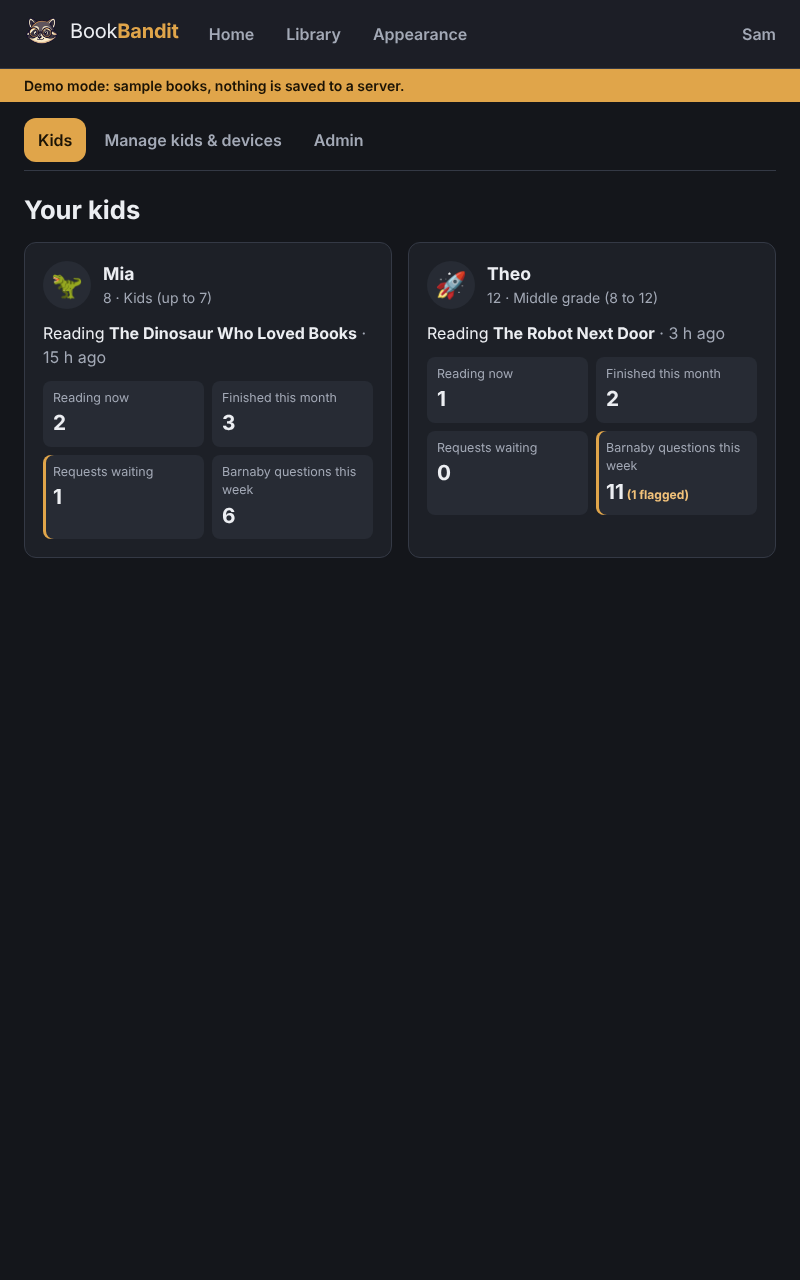
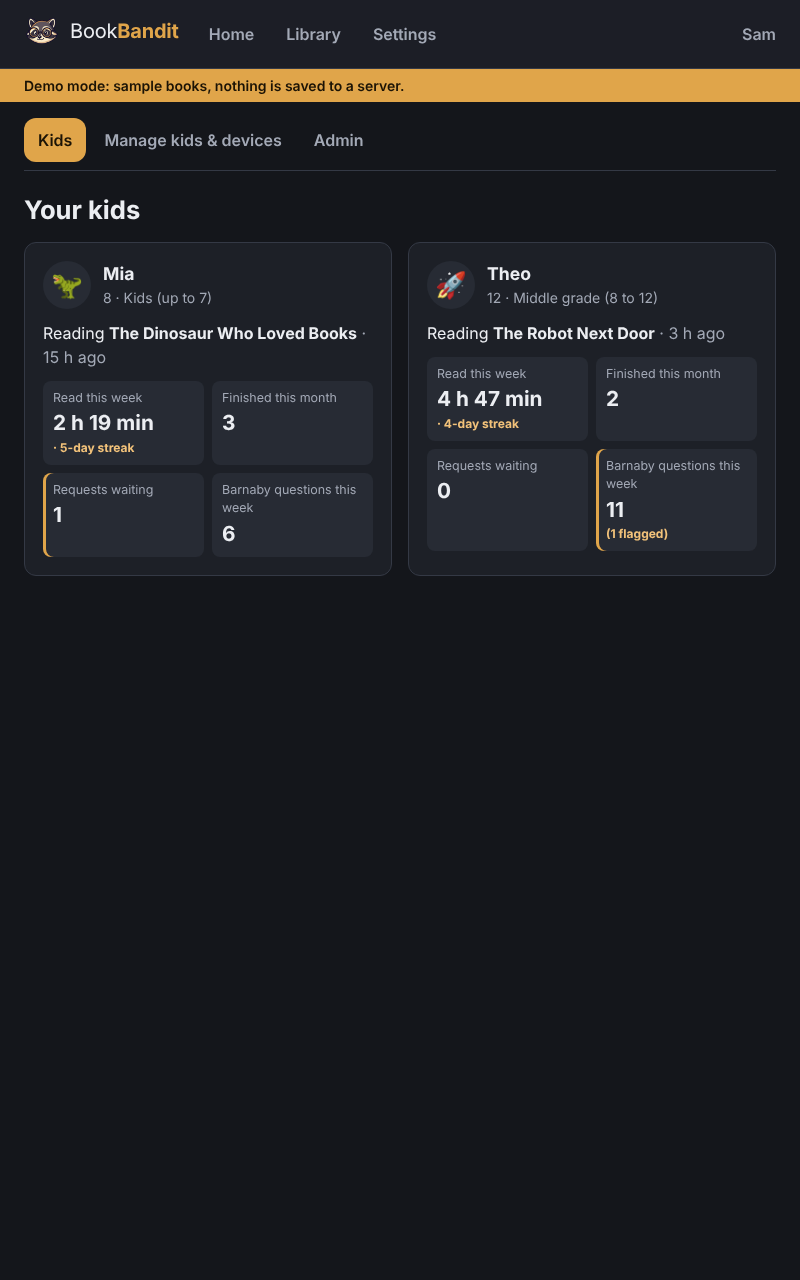
Show reading time on the family dashboard; move admin change log to docs/changes/admin.md
Claude-Session: https://claude.ai/code/session_014p1Va6UR5L7N9q4o3NRTCx

diff --git a/apps/web/src/family/ReadingTime.tsx b/apps/web/src/family/ReadingTime.tsx
@@ -1,0 +1,99 @@
+import { adminApi, type ReadingStats } from "../admin/api";
+import { Card, Cover, ErrorNote, useLoad } from "../admin/ui";
+
+/** "1 h 5 min", "12 min", "0 min" */
+export function formatMinutes(seconds: number): string {
+  const m = Math.round(seconds / 60);
+  if (m < 60) return `${m} min`;
+  const h = Math.floor(m / 60);
+  const rest = m % 60;
+  return rest ? `${h} h ${rest} min` : `${h} h`;
+}
+
+const weekday = (date: string) => new Date(`${date}T12:00:00Z`).toLocaleDateString(undefined, { weekday: "short", timeZone: "UTC" });
+
+/** Last 7 days of reading and listening time for one kid, from the reading-time API. */
+export function ReadingTimeCard({ kidId, kidName }: { kidId: string; kidName: string }) {
+  const stats = useLoad(() => adminApi.readingStats(kidId, 7), [kidId]);
+  const s = stats.data;
+  return (
+    <Card title="Reading time this week" className="bb-reading-time">
+      <ErrorNote error={stats.error} />
+      {!s ? (
+        stats.error ? null : <p className="bb-muted">Loading…</p>
+      ) : (
+        <>
+          <div className="bb-rt-summary">
+            <div>
+              <strong>{formatMinutes(s.totalSeconds)}</strong>
+              <span className="bb-muted bb-small">in 7 days</span>
+            </div>
+            <div>
+              <strong>{formatMinutes(s.totalSeconds / 7)}</strong>
+              <span className="bb-muted bb-small">a day on average</span>
+            </div>
+            <div>
+              <strong>
+                {s.streakDays} day{s.streakDays === 1 ? "" : "s"}
+                {s.streakDays >= 3 ? " 🔥" : ""}
+              </strong>
+              <span className="bb-muted bb-small">reading streak</span>
+            </div>
+          </div>
+          <DayBars days={s.days} />
+          <p className="bb-muted bb-small bb-rt-legend">
+            <span className="bb-rt-swatch is-read" /> reading <span className="bb-rt-swatch is-listen" /> listening. Only time with the
+            book open and {kidName} active counts.
+          </p>
+          {s.books.length > 0 && (
+            <>
+              <h3 className="bb-subhead">Most time spent on</h3>
+              <ul className="bb-rt-books">
+                {s.books.slice(0, 5).map((b) => (
+                  <li key={b.id}>
+                    <Cover src={adminApi.coverUrl(b)} title={b.title} size={32} />
+                    <span className="bb-person-main">{b.title}</span>
+                    <span className="bb-muted">{formatMinutes(b.seconds)}</span>
+                  </li>
+                ))}
+              </ul>
+            </>
+          )}
+        </>
+      )}
+    </Card>
+  );
+}
+
+function DayBars({ days }: { days: ReadingStats["days"] }) {
+  const max = Math.max(15 * 60, ...days.map((d) => d.readSeconds + d.listenSeconds));
+  return (
+    <ol className="bb-rt-bars" aria-label="Minutes per day">
+      {days.map((d) => {
+        const total = d.readSeconds + d.listenSeconds;
+        return (
+          <li key={d.date} aria-label={`${weekday(d.date)}: ${formatMinutes(total)}`}>
+            <span className="bb-rt-value">{total ? Math.round(total / 60) : ""}</span>
+            <span className="bb-rt-col">
+              <span className="bb-rt-bar is-listen" style={{ height: `${(d.listenSeconds / max) * 100}%` }} />
+              <span className="bb-rt-bar is-read" style={{ height: `${(d.readSeconds / max) * 100}%` }} />
+            </span>
+            <span className="bb-rt-day">{weekday(d.date)}</span>
+          </li>
+        );
+      })}
+    </ol>
+  );
+}
+
+/** Small "minutes this week" figure for a kid card on the dashboard. */
+export function WeekMinutes({ kidId }: { kidId: string }) {
+  const stats = useLoad(() => adminApi.readingStats(kidId, 7), [kidId]);
+  if (!stats.data) return <dd>{stats.error ? "–" : "…"}</dd>;
+  return (
+    <dd>
+      {formatMinutes(stats.data.totalSeconds)}
+      {stats.data.streakDays >= 3 ? <small> · {stats.data.streakDays}-day streak</small> : null}
+    </dd>
+  );
+}

diff --git a/apps/web/src/admin/admin.css b/apps/web/src/admin/admin.css
@@ -618,6 +618,7 @@ a.bb-tile:hover {
   font-weight: 700;
 }
 .bb-kid-stats small {
+  display: block;
   font-size: 0.75rem;
   color: var(--bb-focus);
 }
@@ -728,4 +729,91 @@ a.bb-tile:hover {
   margin-top: 4px;
   font-size: 0.75rem;
   opacity: 0.85;
+}
+
+/* --- reading time ---------------------------------------------------------- */
+
+.bb-reading-time {
+  grid-column: 1 / -1;
+}
+.bb-rt-summary {
+  display: flex;
+  flex-wrap: wrap;
+  gap: 12px 32px;
+  margin-bottom: 12px;
+}
+.bb-rt-summary div {
+  display: flex;
+  flex-direction: column;
+}
+.bb-rt-summary strong {
+  font-family: var(--bb-display-font);
+  font-size: 1.6rem;
+}
+.bb-rt-bars {
+  display: grid;
+  grid-template-columns: repeat(7, 1fr);
+  gap: 8px;
+  height: 180px;
+  margin: 0;
+  padding: 0;
+  list-style: none;
+}
+.bb-rt-bars li {
+  display: flex;
+  flex-direction: column;
+  align-items: center;
+  gap: 4px;
+  min-width: 0;
+}
+.bb-rt-value {
+  min-height: 1.2em;
+  font-size: 0.8rem;
+  font-weight: 700;
+}
+.bb-rt-col {
+  display: flex;
+  flex: 1;
+  flex-direction: column;
+  justify-content: flex-end;
+  width: min(48px, 100%);
+  background: var(--bb-surface-2);
+  border-radius: 6px;
+  overflow: hidden;
+}
+.bb-rt-bar.is-read,
+.bb-rt-swatch.is-read {
+  background: var(--bb-accent);
+}
+.bb-rt-bar.is-listen,
+.bb-rt-swatch.is-listen {
+  background: color-mix(in srgb, var(--bb-accent) 45%, var(--bb-surface-2));
+}
+.bb-rt-day {
+  color: var(--bb-muted);
+  font-size: 0.8rem;
+}
+.bb-rt-legend {
+  margin: 10px 0 0;
+}
+.bb-rt-swatch {
+  display: inline-block;
+  width: 10px;
+  height: 10px;
+  margin: 0 4px 0 8px;
+  border-radius: 2px;
+}
+.bb-rt-swatch:first-child {
+  margin-left: 0;
+}
+.bb-rt-books {
+  margin: 0;
+  padding: 0;
+  list-style: none;
+}
+.bb-rt-books li {
+  display: flex;
+  align-items: center;
+  gap: 10px;
+  padding: 4px 0;
 }

diff --git a/apps/web/src/admin/demo.ts b/apps/web/src/admin/demo.ts
@@ -392,6 +392,29 @@ export const demoAdminApi: AdminApi = {
     return delay({ kid: card(k), ...d });
   },
   familyChat: (_kid, conversationId) => delay(chats[conversationId] ?? notFound()),
+  async readingStats(userId, days = 7) {
+    const k = people.find((p) => p.id === userId) ?? notFound();
+    const pattern: Record<string, number[]> = {
+      "u-kid": [12, 0, 18, 25, 9, 31, 14],
+      "u-kid2": [40, 35, 0, 52, 47, 61, 22],
+    };
+    const mins = pattern[userId] ?? Array(7).fill(0);
+    const daysOut = Array.from({ length: days }, (_, i) => {
+      const m = mins[(i + mins.length - (days % mins.length)) % mins.length] ?? 0;
+      return { date: new Date(now - (days - 1 - i) * D).toISOString().slice(0, 10), readSeconds: m * 60, listenSeconds: i % 3 === 0 ? 600 : 0 };
+    });
+    const reading = kidDetails[userId]?.reading ?? [];
+    const total = daysOut.reduce((n, d) => n + d.readSeconds + d.listenSeconds, 0);
+    let streak = 0;
+    for (let i = daysOut.length - 1; i >= 0 && daysOut[i]!.readSeconds + daysOut[i]!.listenSeconds > 0; i--) streak++;
+    return delay({
+      user: { id: k.id, displayName: k.displayName },
+      totalSeconds: total,
+      streakDays: streak,
+      days: daysOut,
+      books: reading.map((r, i) => ({ id: r.bookId, title: r.title, coverPath: r.coverPath, seconds: Math.round(total * [0.6, 0.3, 0.1][i]!) || 0 })),
+    });
+  },
 };
 
 function emptyStats(): KidStats {

diff --git a/apps/web/src/admin/api.ts b/apps/web/src/admin/api.ts
@@ -280,6 +280,15 @@ export interface ChatMessage {
   createdAt: number;
 }
 
+/** GET /api/reading/stats (docs/sync-api.md#reading-time) */
+export interface ReadingStats {
+  user: { id: string; displayName: string };
+  totalSeconds: number;
+  streakDays: number;
+  days: { date: string; readSeconds: number; listenSeconds: number }[];
+  books: { id: string; title: string; coverPath: string | null; seconds: number }[];
+}
+
 export interface AdminApi {
   overview(): Promise<Overview>;
   scanStatus(): Promise<ScanStatus>;
@@ -319,6 +328,7 @@ export interface AdminApi {
   familyKids(): Promise<(KidCard & { stats: KidStats })[]>;
   familyKid(id: string): Promise<KidDetail>;
   familyChat(kidId: string, conversationId: string): Promise<ChatMessage[]>;
+  readingStats(userId: string, days?: number): Promise<ReadingStats>;
 }
 
 export const httpAdminApi: AdminApi = {
@@ -369,6 +379,8 @@ export const httpAdminApi: AdminApi = {
   familyKid: (id) => request(`/api/family/kids/${enc(id)}`),
   familyChat: (kidId, conversationId) =>
     request<{ messages: ChatMessage[] }>(`/api/family/kids/${enc(kidId)}/chats/${enc(conversationId)}`).then((r) => r.messages),
+  readingStats: (userId, days = 7) =>
+    request(`/api/reading/stats?${new URLSearchParams({ userId, days: String(days), utcOffset: String(-new Date().getTimezoneOffset()) })}`),
 };
 
 export const adminApi: AdminApi = isDemo ? demoAdminApi : httpAdminApi;

diff --git a/apps/web/src/family/FamilyPage.tsx b/apps/web/src/family/FamilyPage.tsx
@@ -3,6 +3,7 @@ import { Link, useParams } from "react-router-dom";
 import { RATING_LABELS } from "@bookbandit/shared";
 import { BarnabyAvatar, BarnabyEmpty } from "../brand/Barnaby";
 import { adminApi, type ChatMessage, type KidChat, type KidRequest } from "../admin/api";
+import { ReadingTimeCard, WeekMinutes } from "./ReadingTime";
 import { Bar, Card, Cover, ErrorNote, RatingPill, timeAgo, useLoad } from "../admin/ui";
 
 /** Parent dashboard: one card per kid with this week's reading, requests and Barnaby chats. */
@@ -46,8 +47,8 @@ export function FamilyPage() {
               </p>
               <dl className="bb-kid-stats">
                 <div>
-                  <dt>Reading now</dt>
-                  <dd>{k.stats.readingNow}</dd>
+                  <dt>Read this week</dt>
+                  <WeekMinutes kidId={k.id} />
                 </div>
                 <div>
                   <dt>Finished this month</dt>
@@ -112,6 +113,7 @@ export function KidPage() {
       </header>
 
       <div className="bb-family-grid">
+        <ReadingTimeCard kidId={d.kid.id} kidName={d.kid.displayName} />
         <Card title={`Reading now (${reading.length})`}>
           {reading.length === 0 ? <p className="bb-muted">Nothing open right now.</p> : null}
           <ul className="bb-reading-list">

diff --git a/apps/web/src/family/ReadingTime.test.ts b/apps/web/src/family/ReadingTime.test.ts
@@ -1,0 +1,12 @@
+import { describe, expect, it } from "vitest";
+import { formatMinutes } from "./ReadingTime";
+
+describe("formatMinutes", () => {
+  it("rounds to minutes and switches to hours", () => {
+    expect(formatMinutes(0)).toBe("0 min");
+    expect(formatMinutes(29)).toBe("0 min");
+    expect(formatMinutes(12 * 60)).toBe("12 min");
+    expect(formatMinutes(60 * 60)).toBe("1 h");
+    expect(formatMinutes(65 * 60)).toBe("1 h 5 min");
+  });
+});

diff --git a/docs/HANDOFF.md b/docs/HANDOFF.md
@@ -62,7 +62,6 @@ parallel PRs don't fight over one table: [lead](changes/lead.md), [auth](changes
 workstream once it lands. Add your entry there, not here.
 | Date | Change | PR |
 | --- | --- | --- |
-| 2026-11-14 | Admin and family UI: `/admin` (overview + scan, inbox with bulk approve, rating, metadata edit, merge, reject; needs-a-rating queue; people, kids and paired devices; Audiobookshelf, SMTP and metadata-lookup settings) and `/family` (per-kid reading, requests and read-only Barnaby chats). New APIs in `routes/admin-library.ts`, `admin-settings.ts`, `admin-family.ts`; see [admin-api.md](admin-api.md). Metadata API keys can now be set in the browser and apply without a restart | ws/admin PR |
 | 2026-11-14 | Sign-in screens: first-run admin setup, username/password, Google button (`GOOGLE_SIGN_IN_URL`), tablet pairing by code, "Who's reading?" with kid PIN and picture pads, Settings → your name and kids' names, Switch reader / Sign out. Tablet browsers keep the device token in a `bb_device` cookie | this PR |
 | 2026-11-14 | PDF reader on pdf.js: page-by-page view, page progress sync, page bookmarks; demo PDF | lead |
 | 2026-11-14 | Wave 2 workstreams planned (admin, listening/storyteller, AI, requests/downloads, discover, Android, e-reader sync) | lead |
@@ -82,7 +81,6 @@ workstream once it lands. Add your entry there, not here.
 
 Admin follow-ups: the sign-in thread adds `<AdminNavLinks role={me.role} />` (from
 `apps/web/src/admin/AdminLayout.tsx`) to the top bar; until then `/admin` and `/family` are reached by URL.
-Once reading sessions land, the family dashboard adds minutes read per kid.
 
 ## Decisions so far
 

diff --git a/docs/ROADMAP.md b/docs/ROADMAP.md
@@ -60,7 +60,7 @@ Goal: kids read on their own tablets and Kavita is switched off.
 - [ ] Parent dashboard: reading, requests, kid AI chats (`ws/admin`; reading-time API done by the lead)
 
 - [x] Admin UI: inbox approval with metadata edit and merge, rating review, scan status, users and kids, paired devices, Audiobookshelf/SMTP/metadata settings (`ws/admin`)
-- [x] Parent dashboard: reading, requests, kid AI chats (`ws/admin`; request approval buttons wait for `ws/requests`, chats fill once `ws/ai` logs them, minutes read wait for reading sessions)
+- [x] Parent dashboard: reading, requests, kid AI chats (`ws/admin`; request approval buttons wait for `ws/requests`, chats fill once `ws/ai` logs them)
 - [ ] AI provider settings (Ollama / OpenAI-compatible / cloud), AI rating helper, AI metadata cleanup (`ws/ai`)
 
 ## Phase 3: Polish and devices

diff --git a/docs/changes/admin.md b/docs/changes/admin.md
@@ -1,0 +1,4 @@
+# Admin and family UI changes (`ws/admin`)
+
+- 2026-11-14: Family dashboard shows reading time from `GET /api/reading/stats`: minutes per day for the last 7 days (reading and listening), streak, daily average and the books with the most time; each kid card shows minutes this week (this PR)
+- 2026-11-14: Admin and family UI: `/admin` (overview + scan, inbox with bulk approve, rating, metadata edit, merge, reject; needs-a-rating queue; people, kids and paired devices; Audiobookshelf, SMTP and metadata-lookup settings) and `/family` (per-kid reading, requests and read-only Barnaby chats). New APIs in `routes/admin-library.ts`, `admin-settings.ts`, `admin-family.ts`; see [admin-api.md](../admin-api.md). Metadata API keys can be set in the browser and apply without a restart (#15)

diff --git a/docs/admin-api.md b/docs/admin-api.md
@@ -16,6 +16,7 @@ through `visibleBooksWhere` for the parent (rule 1).
 | POST | `/api/admin/books/:id/metadata/refresh` | `library/routes.ts` (now reads the metadata settings below) |
 | GET/POST/PATCH/PUT/DELETE | `/api/users…` | `routes/users.ts` |
 | GET/POST/PATCH/DELETE | `/api/devices…` | `routes/devices.ts` |
+| GET | `/api/reading/stats?userId=<kid>&days=7&utcOffset=` | `routes/reading-time.ts` (lead; minutes per day, streak, top books on the family pages) |
 | GET/PUT/POST | `/api/admin/integrations/audiobookshelf[/test]`, `/api/admin/integrations/smtp[/test]` | `integrations/` |
 
 ## Added by ws/admin
